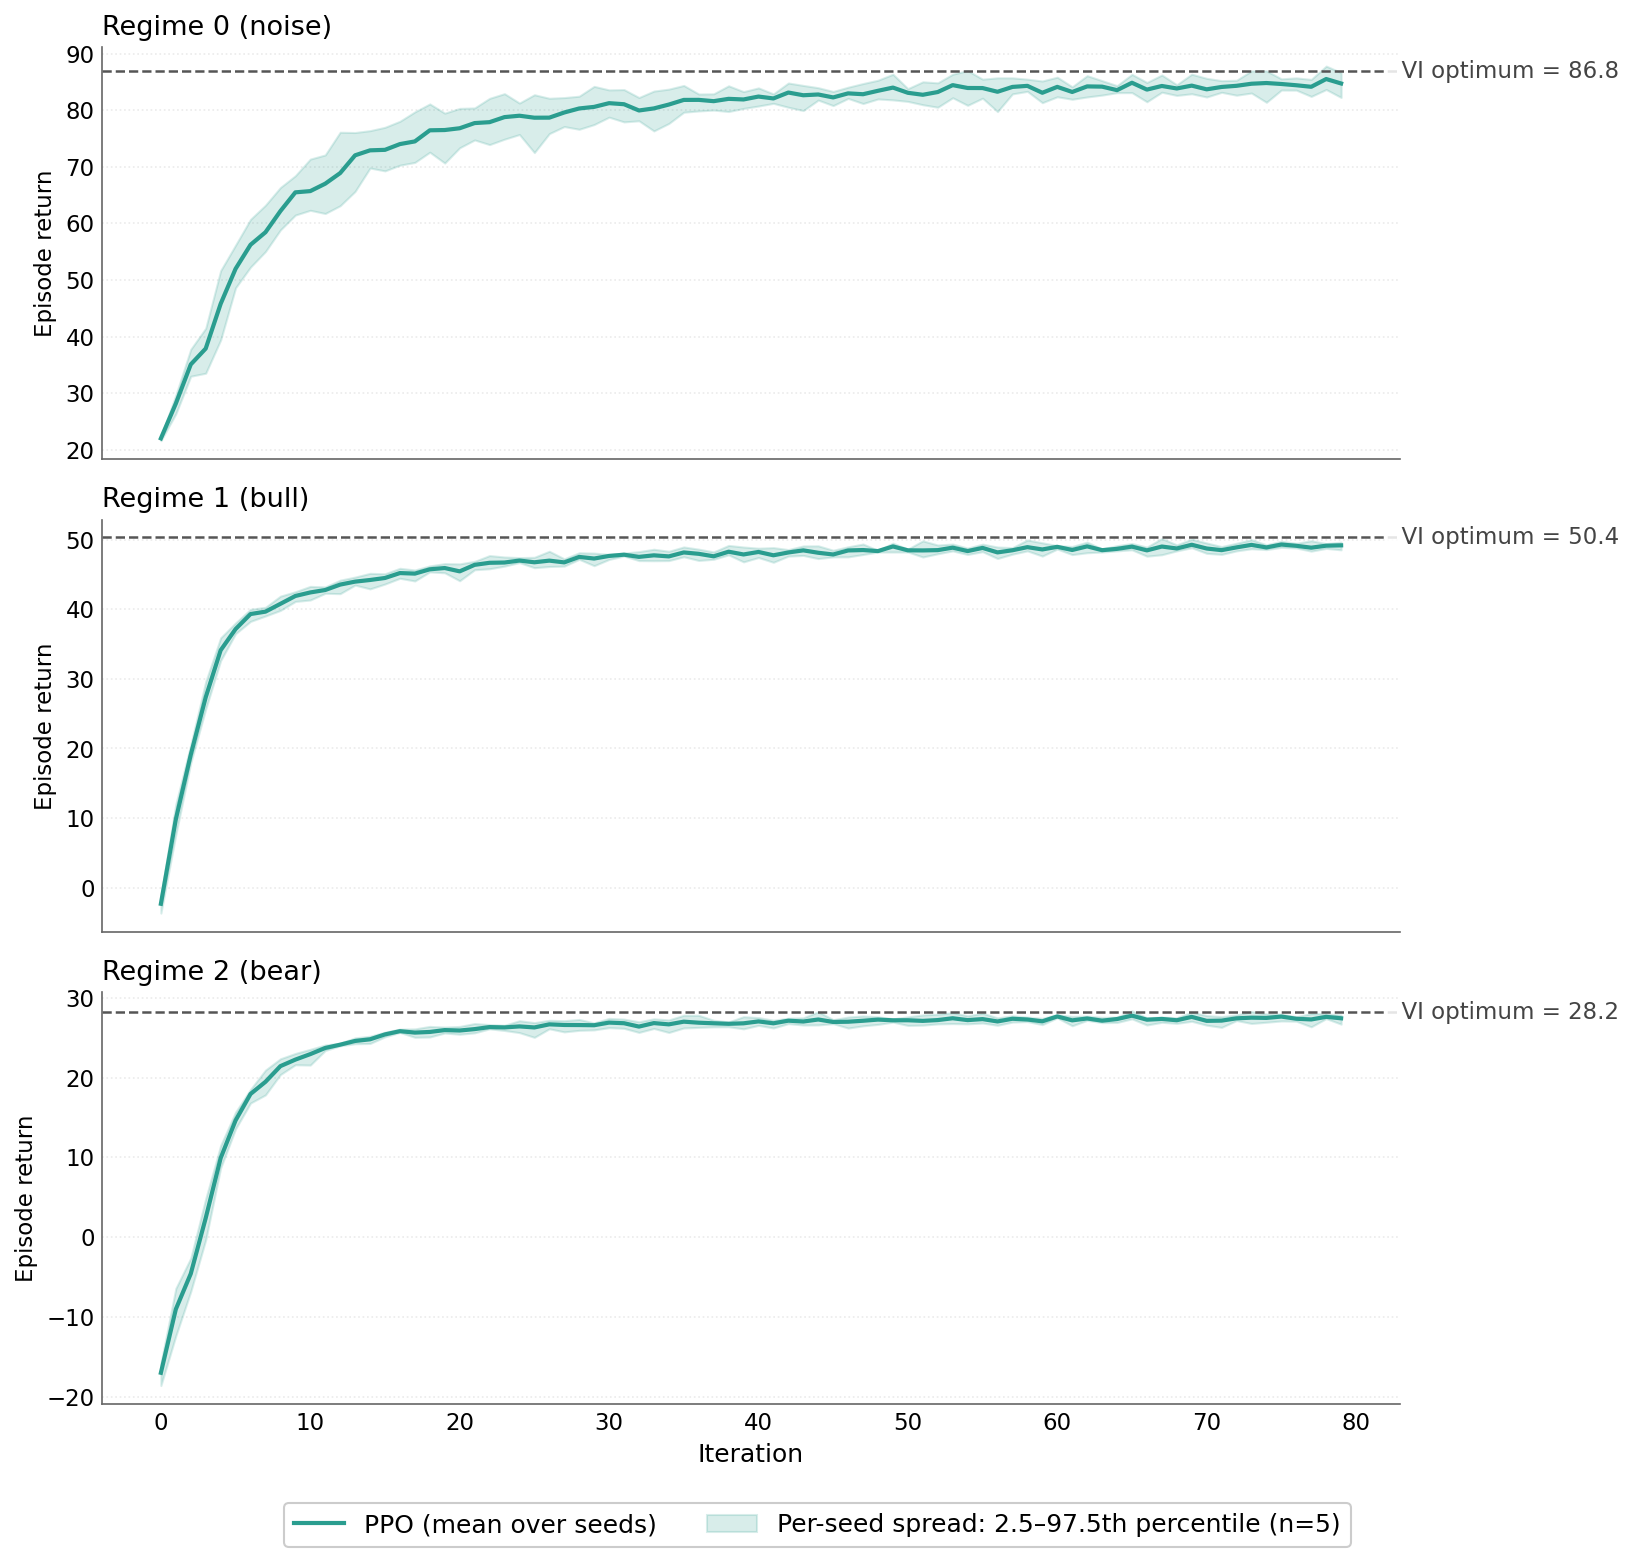
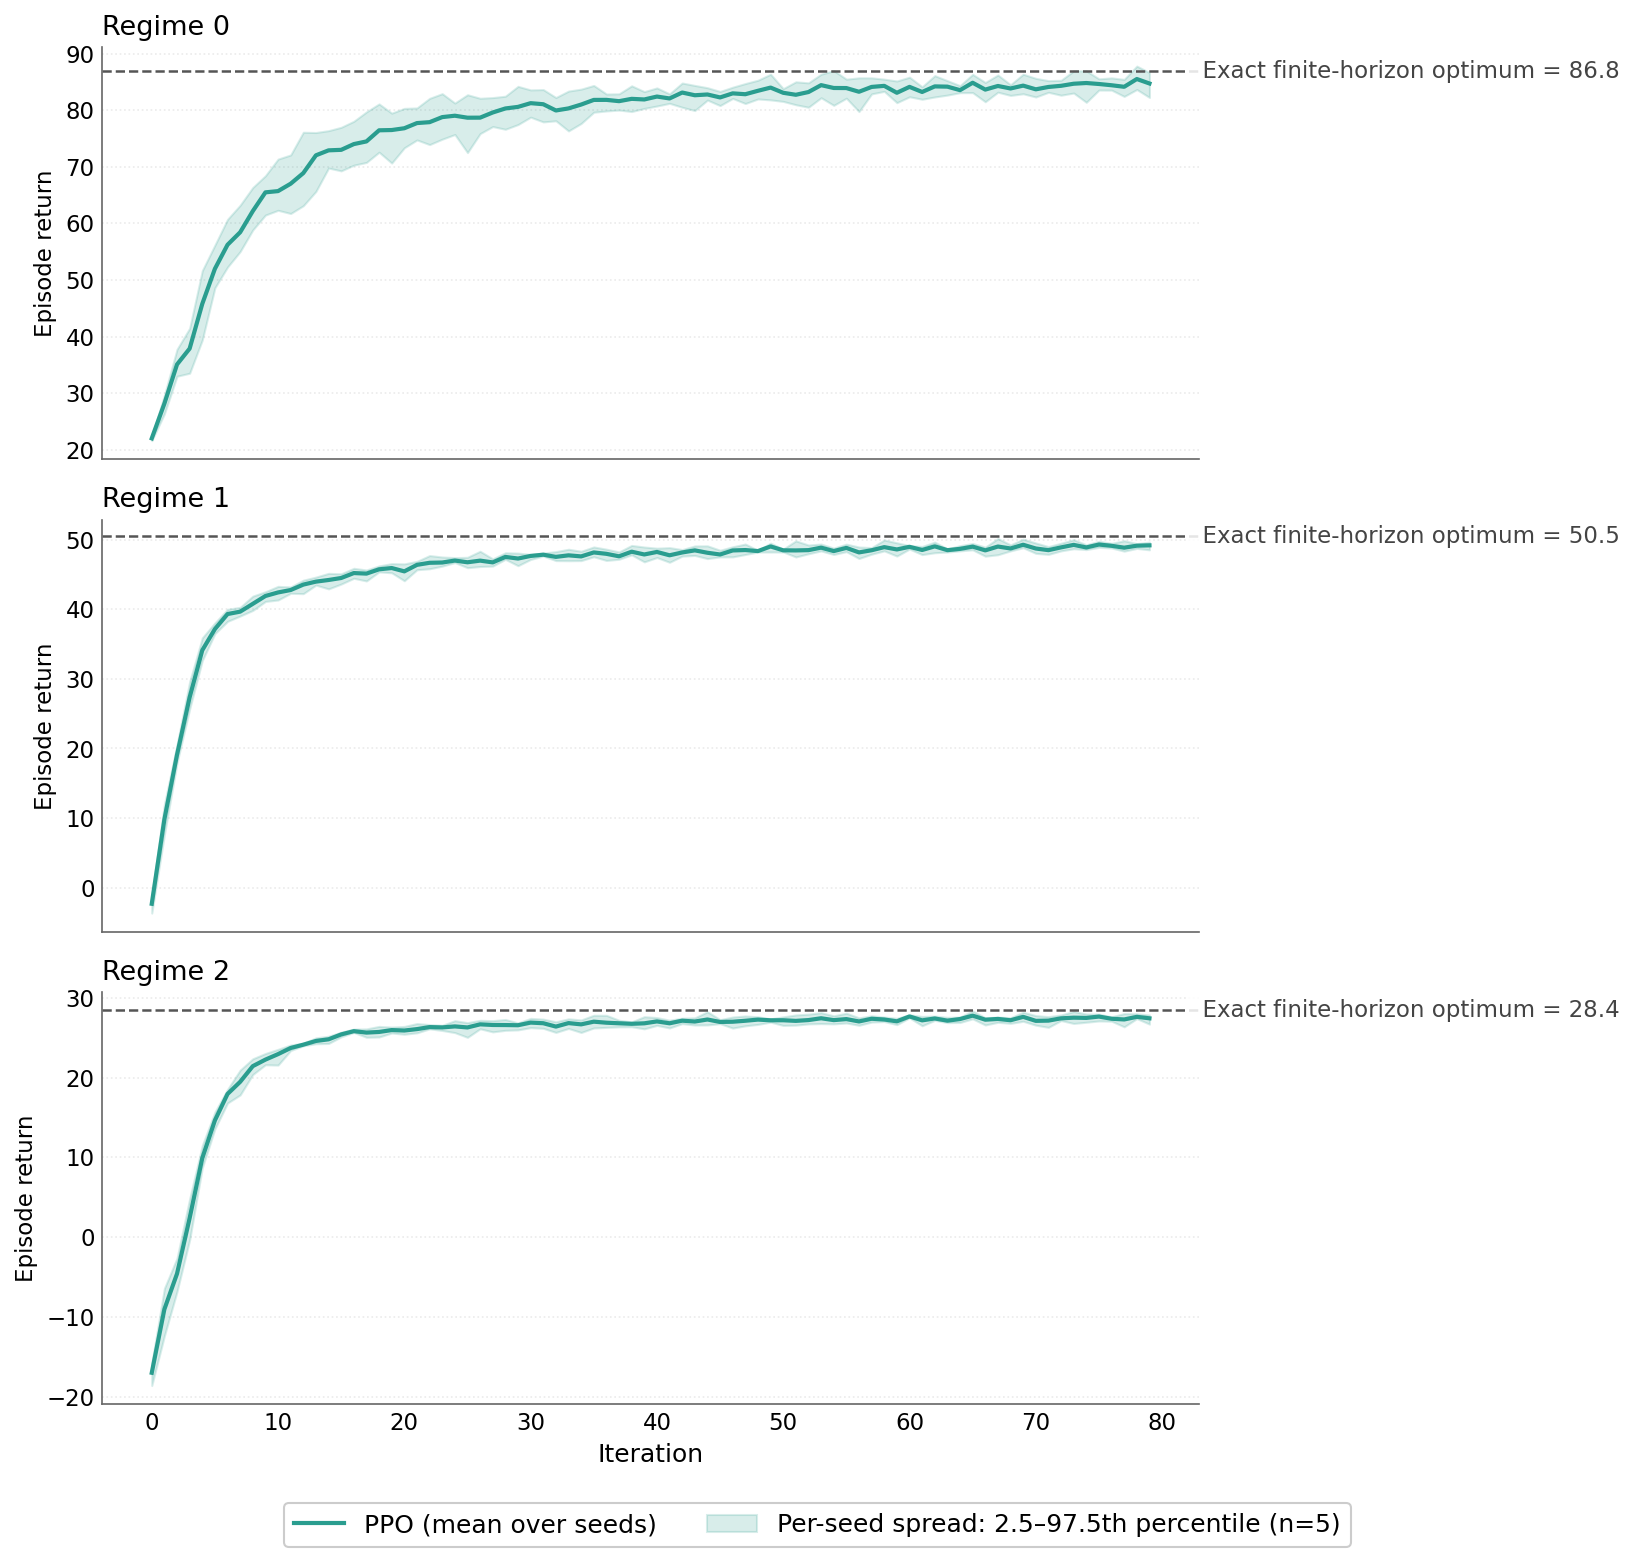
display bug and plotting

diff --git a/scripts/thesis_contract.py b/scripts/thesis_contract.py
@@ -23,7 +23,10 @@ import json
 import sys
 from pathlib import Path
 
+import numpy as np
+
 from evaluation import protocol as P
+from evaluation.metrics import bootstrap_independent_mean_ci
 from utils.paths import results_root
 from utils.script_output import ScriptRun
 
@@ -65,7 +68,70 @@ def _check_comparisons(payload, source: str, findings: list[dict]) -> int:
     return checked
 
 
-def audit(root: Path) -> dict:
+def _signed(value: float, digits: int = 2) -> str:
+    return f"{value:+.{digits}f}"
+
+
+def _check_thesis_result_tables(thesis_root: Path, root: Path, findings: list[dict]) -> None:
+    """Check manually typeset result rows against their analysis artifacts."""
+    results_path = thesis_root / "sections" / "results.tex"
+    try:
+        text = results_path.read_text()
+    except OSError:
+        findings.append({"kind": "missing_thesis_source", "path": str(results_path)})
+        return
+    normalised = " ".join(text.split())
+
+    post = _load(root / "analysis" / "m5r_post_training_evaluation.json")
+    if post is not None:
+        methods = post["methods"]
+        stacked = np.asarray(methods["stacked_obs_ppo"]["per_seed_evaluation_return"], dtype=float)
+        floor = float(methods["regime_agnostic_ppo"]["evaluation_return_mean"])
+        belief = float(methods["belief_ppo"]["evaluation_return_mean"])
+        gap = belief - floor
+        labels = {
+            "Regime-agnostic PPO": "regime_agnostic_ppo",
+            "VariBAD concat": "varibad_concat",
+            "VariBAD hypernet": "varibad_hypernet",
+            "RL\\textsuperscript{2} concat": "rl2_concat",
+            "RL\\textsuperscript{2} hypernet": "rl2_hypernet",
+        }
+        for label, key in labels.items():
+            other = np.asarray(methods[key]["per_seed_evaluation_return"], dtype=float)
+            mean, lo, hi = bootstrap_independent_mean_ci(stacked, other)
+            row = (f"{label} & ${_signed(mean)}$ & $[{_signed(lo)},\\ {_signed(hi)}]$ "
+                   f"& ${_signed(mean / gap)}$")
+            if row not in normalised:
+                findings.append({"kind": "thesis_table_drift", "table": "stacked_baseline",
+                                 "row": label, "expected_fragment": row})
+
+    expected_fragments = {
+        "learning_speed": [
+            "RL\\textsuperscript{2} & $238.3$ & $127.7$ & $-110.6$ & $[-139,\\ -80]$",
+            "VariBAD               & $718.6$ & $208.2$ & $-510.4$ & $[-692,\\ -318]$",
+        ],
+        "diagnostics": [
+            "Policy response      & RL\\textsuperscript{2} & $+0.087$ & $[-0.053,\\ +0.218]$ & $0.313$",
+            "Policy response      & VariBAD               & $+0.116$ & $[+0.052,\\ +0.192]$ & $<0.001$",
+            "Belief substitution  & RL\\textsuperscript{2} & $+0.071$ & $[-0.026,\\ +0.159]$ & $0.313$",
+            "Belief substitution  & VariBAD               & $+0.206$ & $[+0.112,\\ +0.305]$ & $<0.001$",
+        ],
+    }
+    for table, fragments in expected_fragments.items():
+        for fragment in fragments:
+            if " ".join(fragment.split()) not in normalised:
+                findings.append({"kind": "thesis_table_drift", "table": table,
+                                 "expected_fragment": fragment})
+
+    appendix_path = thesis_root / "sections" / "appendix.tex"
+    appendix = " ".join(appendix_path.read_text().split()) if appendix_path.exists() else ""
+    for fragment in ("& $\\geq 0.85$ & $0.964$ & Pass", "$96.4\\%$ of the exact finite-horizon optimum"):
+        if fragment not in appendix:
+            findings.append({"kind": "thesis_table_drift", "table": "environment_validation",
+                             "expected_fragment": fragment})
+
+
+def audit(root: Path, thesis_root: Path | None = None) -> dict:
     findings: list[dict] = []
     # Analyses moved out of the retired M5R/final layout; the audit was
     # looking for its inputs where nothing has been written since.
@@ -160,6 +226,17 @@ def audit(root: Path) -> dict:
                                  "field": field, "expected": expected,
                                  "found": found})
 
+    if thesis_root is not None:
+        _check_thesis_result_tables(thesis_root, root, findings)
+
+    env_stats = _load(root / "foundations" / "env_validation" / "e9_stats.json")
+    if env_stats is not None:
+        r2 = env_stats.get("R2_per_regime_ppo_vs_vi", {})
+        expected_reference = "exact_undiscounted_finite_horizon_optimum"
+        if r2.get("reference") != expected_reference:
+            findings.append({"kind": "environment_validation_reference",
+                             "expected": expected_reference, "found": r2.get("reference")})
+
     return {
         "protocol": {
             "seeds": P.SEEDS, "bootstrap_resamples": P.BOOTSTRAP_RESAMPLES,
@@ -177,11 +254,13 @@ def main() -> int:
     ap = argparse.ArgumentParser(prog="scripts.thesis_contract")
     ap.add_argument("--strict", action="store_true",
                     help="exit non-zero when anything fails the contract")
+    ap.add_argument("--thesis-root", type=Path,
+                    help="also check manually typeset result tables in this thesis checkout")
     args = ap.parse_args()
 
     run = ScriptRun(script="thesis_contract")
     root = results_root()
-    report = audit(root)
+    report = audit(root, args.thesis_root)
 
     out_dir = root / "audits"
     out_dir.mkdir(parents=True, exist_ok=True)

diff --git a/oracles/verify_requirements.py b/oracles/verify_requirements.py
@@ -31,6 +31,7 @@ from envs.market_making_v1 import MarketMakingV1
 from envs.wrappers.belief_obs import BeliefObsEnv
 from oracles.value_iteration import (
     compromise_policy_expected_returns,
+    finite_horizon_locked_regime_optima,
     policy_disagreement,
     solve_value_iteration,
     wrong_regime_value_loss,
@@ -67,7 +68,7 @@ from utils.paths import foundations_dir  # noqa: E402
 # duplicated in prose once already and drifted (R4 was cited as 0.30 in one
 # place while the check ran at 0.35).
 R1_MIN_DISAGREE_FRAC = 0.80  # fraction of inventory levels where policies differ
-R2_MIN_RATIO = 0.85  # worst-regime PPO / VI return ratio
+R2_MIN_RATIO = 0.85  # worst-regime PPO / exact finite-horizon return ratio
 R3_MAX_RECOVERY = 0.90  # regime-agnostic / Belief-PPO return ratio
 R4_MIN_ENTROPY_DECAY = 0.35  # posterior entropy decay by episode midpoint
 
@@ -237,7 +238,7 @@ def verify(
     print(f"[verify] [step 1] VI done in {time.perf_counter() - t0:.2f}s", flush=True)
     disagree_frac, disagree_mask = policy_disagreement(vi)
     mean_loss, rel_loss, per_state_loss = wrong_regime_value_loss(env, vi)
-    per_regime_optima = vi.per_regime_expected_episode_return.astype(float)
+    per_regime_optima = finite_horizon_locked_regime_optima(env)
     r1_pass = bool(disagree_frac >= R1_MIN_DISAGREE_FRAC)
     print(
         f"[verify] R1: disagree_frac={disagree_frac:.3f} "
@@ -245,7 +246,7 @@ def verify(
         flush=True,
     )
 
-    # ------- R2: short per-regime PPO vs VI per regime ------------------
+    # ------- R2: short per-regime PPO vs finite-horizon optimum ---------
     per_regime_metrics: list[dict[str, Any]] = []
     per_regime_ratios: list[float] = []
     ppo_runs_done = 0
@@ -271,7 +272,7 @@ def verify(
         print(
             f"[verify] [step 2] PPO {ppo_runs_done}/{n_ppo_runs} done in "
             f"{time.perf_counter() - t0:.1f}s | final={m['final_return_mean']:.2f} "
-            f"vi={per_regime_optima[r]:.2f} ratio={ratio:.3f}",
+            f"optimum={per_regime_optima[r]:.2f} ratio={ratio:.3f}",
             flush=True,
         )
     r2_min = float(min(per_regime_ratios))
@@ -415,6 +416,7 @@ def verify(
             "pass": r1_pass,
         },
         "R2_per_regime_ppo_vs_vi": {
+            "reference": "exact_undiscounted_finite_horizon_optimum",
             **{f"regime_{r}_ratio": per_regime_ratios[r] for r in range(env.n_regimes)},
             "min_ratio": r2_min,
             "pass": r2_pass,
@@ -444,6 +446,8 @@ def verify(
         "all_pass": all_pass,
         "vi": {
             "per_regime_expected_episode_return": per_regime_optima.tolist(),
+            "stationary_policy_per_regime_expected_episode_return":
+                vi.per_regime_expected_episode_return.tolist(),
             "mixed_expected_episode_return": float(vi.mixed_expected_episode_return),
             "policy": vi.policy.tolist(),
         },

diff --git a/oracles/value_iteration.py b/oracles/value_iteration.py
@@ -3,8 +3,8 @@
 Full-info MDP: state = (inventory, regime). The optimal policy on this MDP
 is what Oracle-PPO and per-regime PPO target. Used in M2 for:
 - R1 (policy divergence): compare per-regime argmax policies.
-- R2 (locked-regime optimality): compare PPO return to VI return on each
-  locked regime.
+- R2 (locked-regime optimality): compare PPO return to the exact
+  undiscounted finite-horizon optimum in each locked regime.
 - R3 / R4 utility: approximate episode-return under a given policy by
   forward-evaluating the MDP for `episode_length` steps from q=0, regime
   drawn from the initial distribution.
@@ -296,7 +296,7 @@ def finite_horizon_optimum(env: MarketMakingV1) -> float:
     Backward induction over `episode_length` steps with no discounting, which is
     what an episode return actually is. `solve_value_iteration` reports the
     undiscounted value of the *discounted*-optimal stationary policy, a lower
-    bound; this is the bound itself, and is what R2 and any "fraction of
+    bound; this is the exact ceiling, and is what R2 and any "fraction of
     optimum" figure should be stated against.
     """
     P, R = _transition_tables(env)
@@ -308,6 +308,25 @@ def finite_horizon_optimum(env: MarketMakingV1) -> float:
     init = int(env.inventory_max)
     dist = np.asarray(env.initial_distribution, dtype=np.float64)
     return float(V.reshape(n_inv, n_reg)[init] @ dist)
+
+
+def finite_horizon_locked_regime_optima(env: MarketMakingV1) -> np.ndarray:
+    """Exact undiscounted finite-horizon optimum for each locked regime.
+
+    Each value starts from the reset inventory and pins the regime for the
+    whole episode, matching the fixed-regime PPO runs used by requirement R2.
+    """
+    P, R = _transition_tables(env)
+    n_inv, n_reg, n_act, _, _ = P.shape
+    init = int(env.inventory_max)
+    values = np.zeros(n_reg, dtype=np.float64)
+    for regime in range(n_reg):
+        P_inv = P[:, regime, :, :, :].sum(axis=-1)
+        V = np.zeros(n_inv, dtype=np.float64)
+        for _ in range(env.episode_length):
+            V = (R[:, regime, :] + np.einsum("saj,j->sa", P_inv, V)).max(axis=-1)
+        values[regime] = V[init]
+    return values
 
 
 def finite_horizon_policy(env: MarketMakingV1, gamma: float = 1.0) -> np.ndarray:

diff --git a/scripts/m5r_return_tests.py b/scripts/m5r_return_tests.py
@@ -8,9 +8,9 @@ regenerated or audited:
 
   * ``returns_method`` — RL2 against VariBAD at a fixed conditioning
     architecture, from fresh post-training evaluation episodes.
-  * ``time_to_threshold`` — iterations to first reach the regime-agnostic
-    reference return, one comparison per method, from the per-seed learning
-    curves.
+  * ``time_to_threshold`` — zero-based start index of the first forward
+    25-iteration window whose mean reaches the regime-agnostic reference
+    return, one comparison per method, from the per-seed learning curves.
 
 Both are computed here in the same schema the other set scripts write, so
 `scripts.thesis_contract` can check them alongside the rest.
@@ -76,7 +76,7 @@ def _per_seed_curves(experiment: str) -> np.ndarray | None:
 
 
 def _first_reach(curve: np.ndarray, target: float) -> int | None:
-    """Iterations until the smoothed curve first reaches `target`.
+    """Start index of the first forward window whose mean reaches `target`.
 
     Smoothing first, because a single noisy iteration touching the target is
     not the run having learned to reach it.
@@ -143,7 +143,7 @@ def method_return_tests(methods: dict) -> dict:
 
 
 def time_to_threshold_tests(env_label: str, target: float) -> dict | None:
-    """Iterations to first reach the target, hypernetwork minus concatenation."""
+    """Threshold-window start index, hypernetwork minus concatenation."""
     size = P.COMPARISON_SETS["time_to_threshold"].size
     comparisons = []
     for method in METHODS:
@@ -161,6 +161,7 @@ def time_to_threshold_tests(env_label: str, target: float) -> dict | None:
         comp["target_return"] = float(target)
         comp["target_source"] = THRESHOLD_TARGET_REF
         comp["smoothing_window"] = SMOOTH_WINDOW
+        comp["index_definition"] = "zero_based_start_of_forward_window"
         comp["concat_mean_iterations"] = float(c_it.mean())
         comp["hypernet_mean_iterations"] = float(h_it.mean())
         comp["runs_faster_under_hypernet"] = int((h_it < c_it).sum())

diff --git a/plotting/m2_plots.py b/plotting/m2_plots.py
@@ -152,10 +152,10 @@ def plot_value_loss_distribution(
 
 def plot_per_regime_ppo(
     per_regime_metrics: Iterable[dict],
-    vi_per_regime_returns: np.ndarray,
+    optimum_per_regime_returns: np.ndarray,
     output_path: Path,
 ) -> None:
-    """One subplot per regime, stacked vertically: PPO learning curve with VI line."""
+    """One subplot per regime with PPO learning curve and finite-horizon optimum."""
     apply_style()
     metrics = list(per_regime_metrics)
     n_reg = len(metrics)
@@ -175,17 +175,17 @@ def plot_per_regime_ppo(
             ax.fill_between(iters, lo, hi, color=color, alpha=0.18,
                             label=f"Per-seed spread: 2.5–97.5th percentile (n={n_seeds})")
         ax.axhline(
-            vi_per_regime_returns[r],
+            optimum_per_regime_returns[r],
             color="#555555", linestyle="--", linewidth=1.2,
         )
         ax.text(
-            0.99, vi_per_regime_returns[r],
-            f"  VI optimum = {vi_per_regime_returns[r]:.1f}",
+            0.99, optimum_per_regime_returns[r],
+            f"  Exact finite-horizon optimum = {optimum_per_regime_returns[r]:.1f}",
             transform=ax.get_yaxis_transform(),
             ha="left", va="center", fontsize=11, color="#444444",
             bbox=dict(facecolor="white", edgecolor="none", alpha=0.85, pad=1.0),
         )
-        ax.set_title(f"Regime {r} ({_regime_label(r)})", fontsize=13, loc="left")
+        ax.set_title(_regime_label(r), fontsize=13, loc="left")
         ax.set_ylabel("Episode return", fontsize=11)
         ax.tick_params(axis="both", labelsize=11)
         polish(ax)

diff --git a/scripts/env_validation_final.py b/scripts/env_validation_final.py
@@ -76,7 +76,7 @@ ENVS: list[dict[str, Any]] = [
         "label": "e9",
         "config": "e9_rare_fills.yaml",
         "thesis_row": "Medium-difficulty, reference",
-        "expected": {"R1": 1.00, "R2": 0.97, "R3": 0.76, "R4": 0.59},
+        "expected": {"R1": 1.00, "R2": 0.96, "R3": 0.76, "R4": 0.59},
         "reference_env": True,
     },
     {

diff --git a/REPRODUCE.md b/REPRODUCE.md
@@ -1,7 +1,7 @@
 # Reproducing the thesis results
 
 This guide reproduces the experiments reported in *Trading in the Dark: Belief-Conditioned
-Meta-RL for Regime-Switching Market Making*.
+Meta-Reinforcement Learning for Regime-Switching Market Making*.
 
 ## 1. Use the archived version
 
@@ -78,6 +78,12 @@ uv run python -m scripts.thesis_contract --strict
 
 This command checks that the required outputs exist and that their settings agree with
 `evaluation/protocol.py`.
+
+When a thesis checkout is available, also check its manually typeset result tables:
+
+```bash
+uv run python -m scripts.thesis_contract --strict --thesis-root /path/to/thesis-checkout
+```
 
 ## Outputs
 

diff --git a/README.md b/README.md
@@ -1,6 +1,6 @@
-# Belief-Conditioned Meta-RL for Regime-Switching Market Making
+# Trading in the Dark: Belief-Conditioned Meta-Reinforcement Learning for Regime-Switching Market Making
 
-Research code for the master's thesis *Trading in the Dark: Belief-Conditioned Meta-RL for
+Research code for the master's thesis *Trading in the Dark: Belief-Conditioned Meta-Reinforcement Learning for
 Regime-Switching Market Making*.
 
 The experiments compare RL² and VariBAD under two ways of providing a learned belief to the
